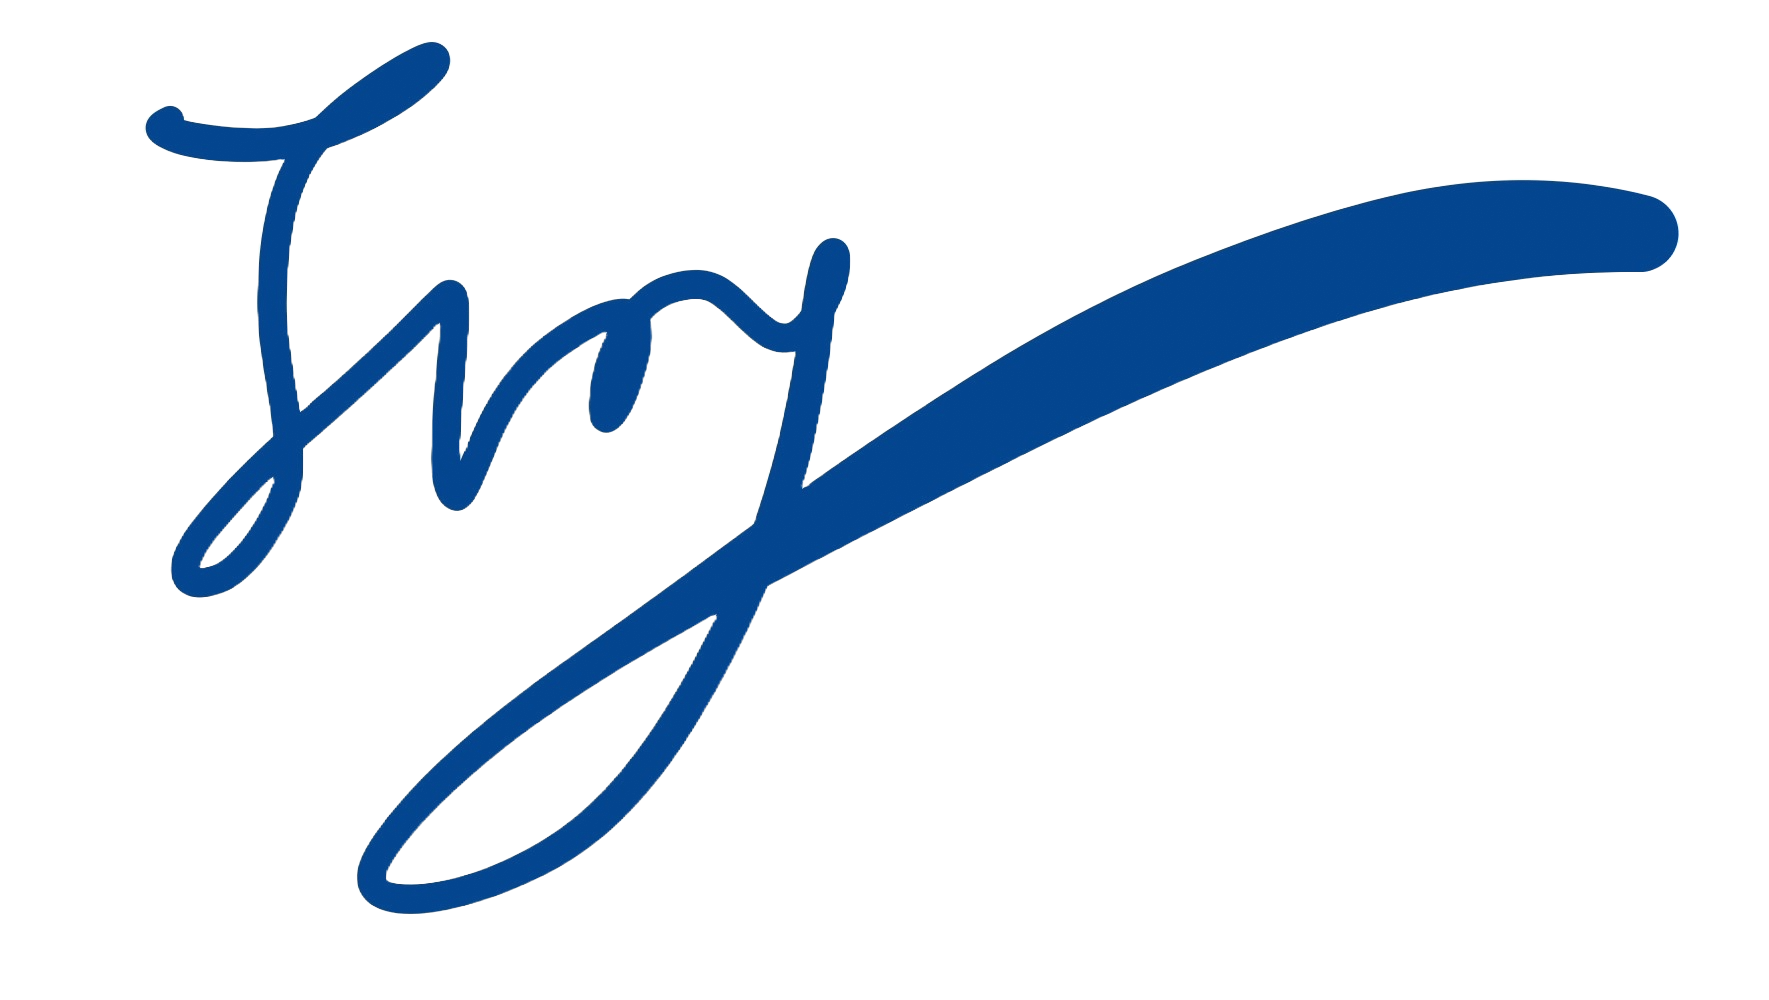
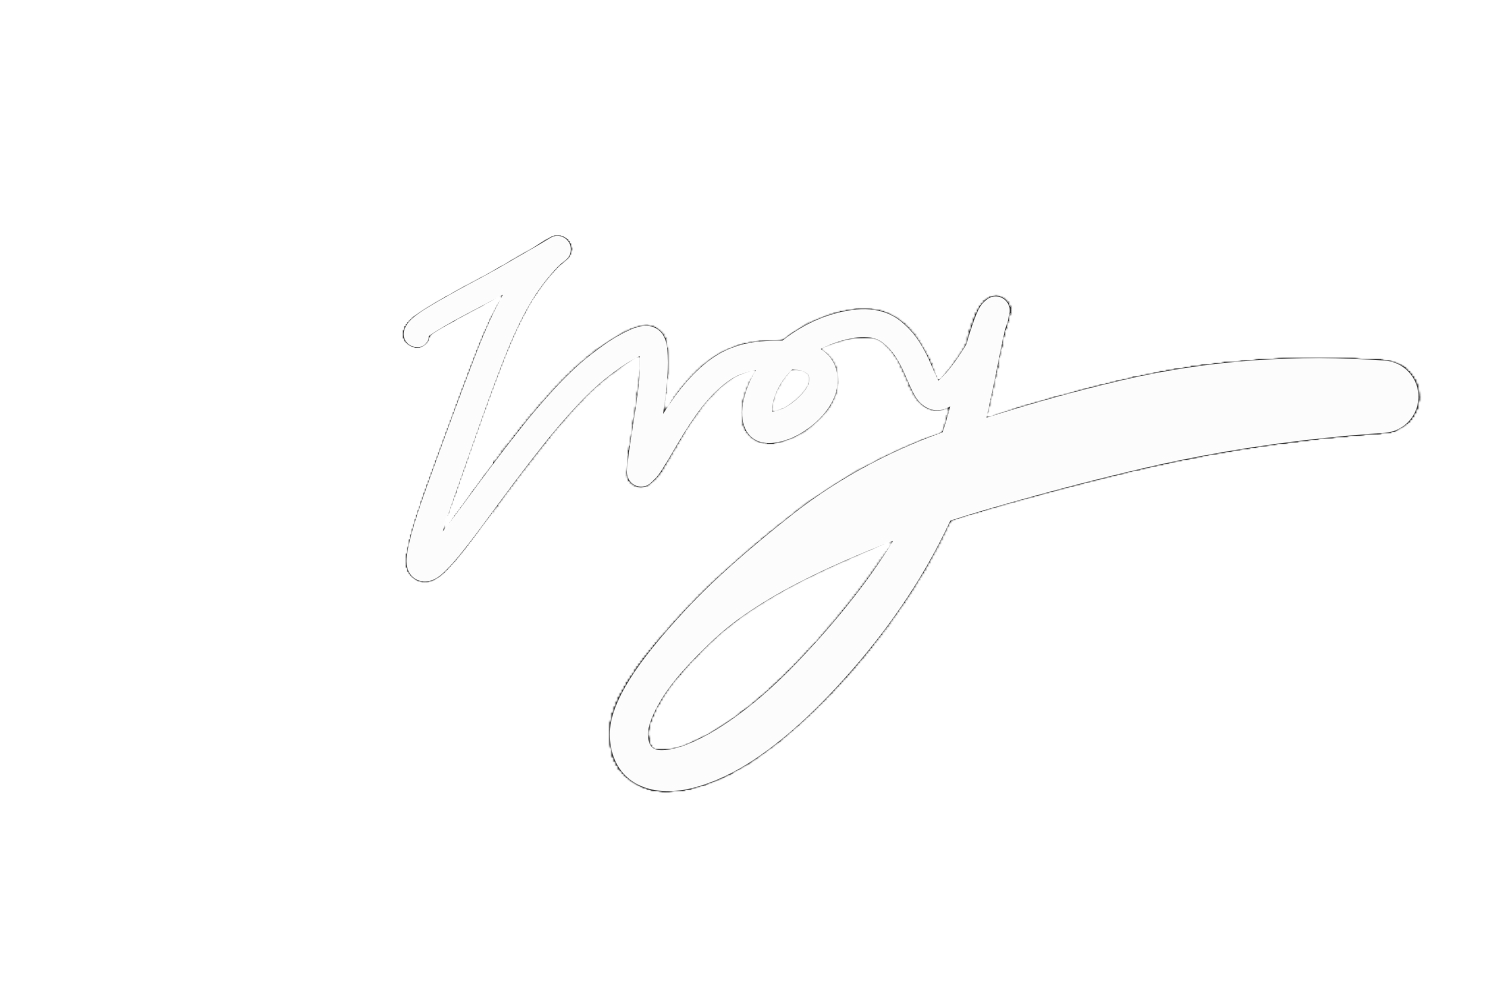
navbar and adjustment

Changed region(s): [[0.0613, 0.031, 0.9507, 0.9309]]

diff --git a/src/app/lib/components/navbar.tsx b/src/app/lib/components/navbar.tsx
@@ -1,22 +1,24 @@
+'use client'
+import { Disclosure} from '@headlessui/react'
+import { Bars3Icon,  XMarkIcon } from '@heroicons/react/24/outline'
+import { usePathname } from 'next/navigation'
 
-import { Fragment } from 'react'
-import { Disclosure, Menu, Transition } from '@headlessui/react'
-import { Bars3Icon, BellIcon, XMarkIcon } from '@heroicons/react/24/outline'
 
-const navigation = [
-  { name: 'Profile', href: '#', current: true },
-  { name: 'Projects', href: '#', current: false },
-  { name: 'Gallery', href: '/upload', current: false },
-  { name: 'Time Management System', href: '#', current: false },
-]
+const NavigationBar=()=>{
+  const navigation = [
+    { name: 'About me', href: '/', current: true },
+    { name: 'Projects', href: '#', current: false },
+    { name: 'Gallery', href: '/upload', current: false },
+    { name: 'Time Management System', href: '#', current: false },
+  ]
 
-function classNames(...classes: string[]) {
-  return classes.filter(Boolean).join(' ')
-}
-
-const Nav=()=>{
+  navigation.forEach((item) => {
+    item.current =  usePathname === item.href;
+  });
+  function classNames(...classes: string[]) {
+    return classes.filter(Boolean).join(' ')
+  }
   return (
-    <div>
     <Disclosure as="nav" className="bg-gray-800">
       {({ open }) => (
         <>
@@ -37,7 +39,7 @@ const Nav=()=>{
               <div className="flex flex-1 items-center justify-center sm:items-stretch sm:justify-start">
                 <div className="flex flex-shrink-0 items-center">
                   <img
-                    className="h-8 w-auto"
+                    className="h-10 w-auto"
                     src="./troy.png"
                     alt="Your Company"
                   />
@@ -84,7 +86,6 @@ const Nav=()=>{
         </>
       )}
     </Disclosure>
-    </div>
   )
 }
-export default Nav;
+export default NavigationBar;

diff --git a/src/app/upload/page.tsx b/src/app/upload/page.tsx
@@ -6,7 +6,7 @@ import { useEdgeStore } from "../lib/edgestore";
 
 export default function Page() {
   const [file, setFile] = useState<File>();
-  const {edgestore} = useEdgeStore();
+  const { edgestore } = useEdgeStore();
   const [progress, setProgress] = useState(0);
   const [des, setDes] = useState('');
   const [data, setData] = useState<any[]>([]);
@@ -26,6 +26,7 @@ export default function Page() {
   };
 
   return (
+
       <div className="flex flex-col items-center m-6 gap-2">
 
         <SingleImageDropzone
@@ -107,7 +108,9 @@ export default function Page() {
             <p>Loading data...</p>
           )}
         </div>
-      </div>)
+      </div>
+
+  )
 }
 
 

diff --git a/src/app/layout.tsx b/src/app/layout.tsx
@@ -1,7 +1,6 @@
-import { NativeBuffer } from 'mongoose';
 import { Inter } from 'next/font/google'
 import './globals.css'
-import Nav from './lib/components/navbar';
+import NavigationBar from './lib/components/navbar';
 const inter = Inter({ subsets: ['latin'] })
 
 export const metadata = {
@@ -16,8 +15,9 @@ export default function RootLayout({
 }) {
   return (
     <html lang="en">
-      <Nav/>
-      <body className={inter.className}>{children}</body>
+      
+      <body className={inter.className}>
+      <NavigationBar/>{children}</body>
     </html>
   )
 }

diff --git a/src/app/upload/layout.tsx b/src/app/upload/layout.tsx
@@ -17,6 +17,7 @@ export default function RootLayout({
 }) {
   return (
     <html lang="en">
+      
       <body className={inter.className}><EdgeStoreProvider>{children}</EdgeStoreProvider></body>
     </html>
   )

diff --git a/src/app/upload/gallery.css b/src/app/upload/gallery.css
@@ -1,9 +1,5 @@
 body{
     background-color:whitesmoke;
-    min-height:100vh;
-    display:flex;
-    justify-content: center;
-    align-items: center;
 }
 .img-gallery{
     width: 80%;

diff --git a/src/app/page.tsx b/src/app/page.tsx
@@ -1,5 +1,4 @@
 'use client'
-
 export default function Page() {
   return (
     <div>
